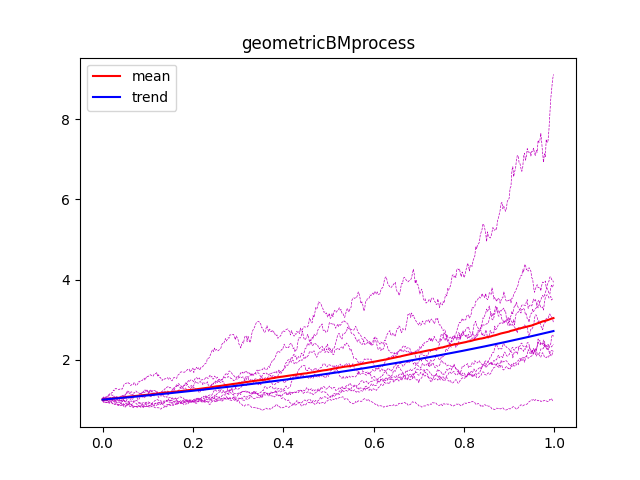
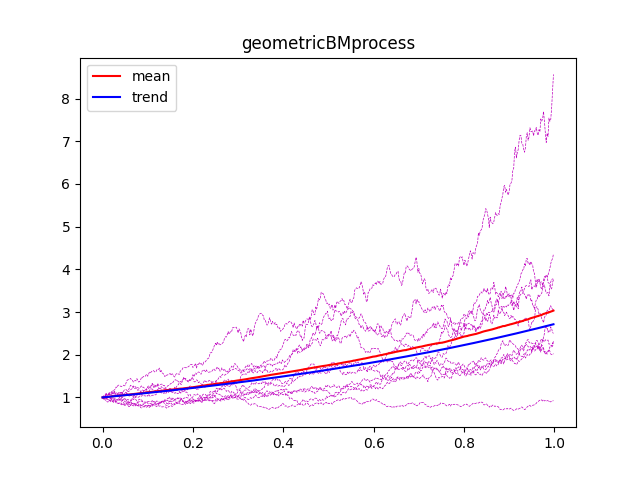
modi:geometricBMprocess.py:B0=0(a.s)

diff --git a/geometricBMprocess.py b/geometricBMprocess.py
@@ -12,7 +12,8 @@ T, N = 1, 500
 dt = T/N
 t = np.arange(0, 1, dt)
 M = 1000
-B = np.cumsum(np.sqrt(dt)*np.random.randn(M, N), axis=1)
+B = np.zeros((M, N))
+B[:, 1:] = np.cumsum(np.sqrt(dt)*np.random.randn(M, N-1), axis=1)
 
 Y = np.exp(t)
 U = np.exp(np.tile(t, (M, 1))+0.5*B)
